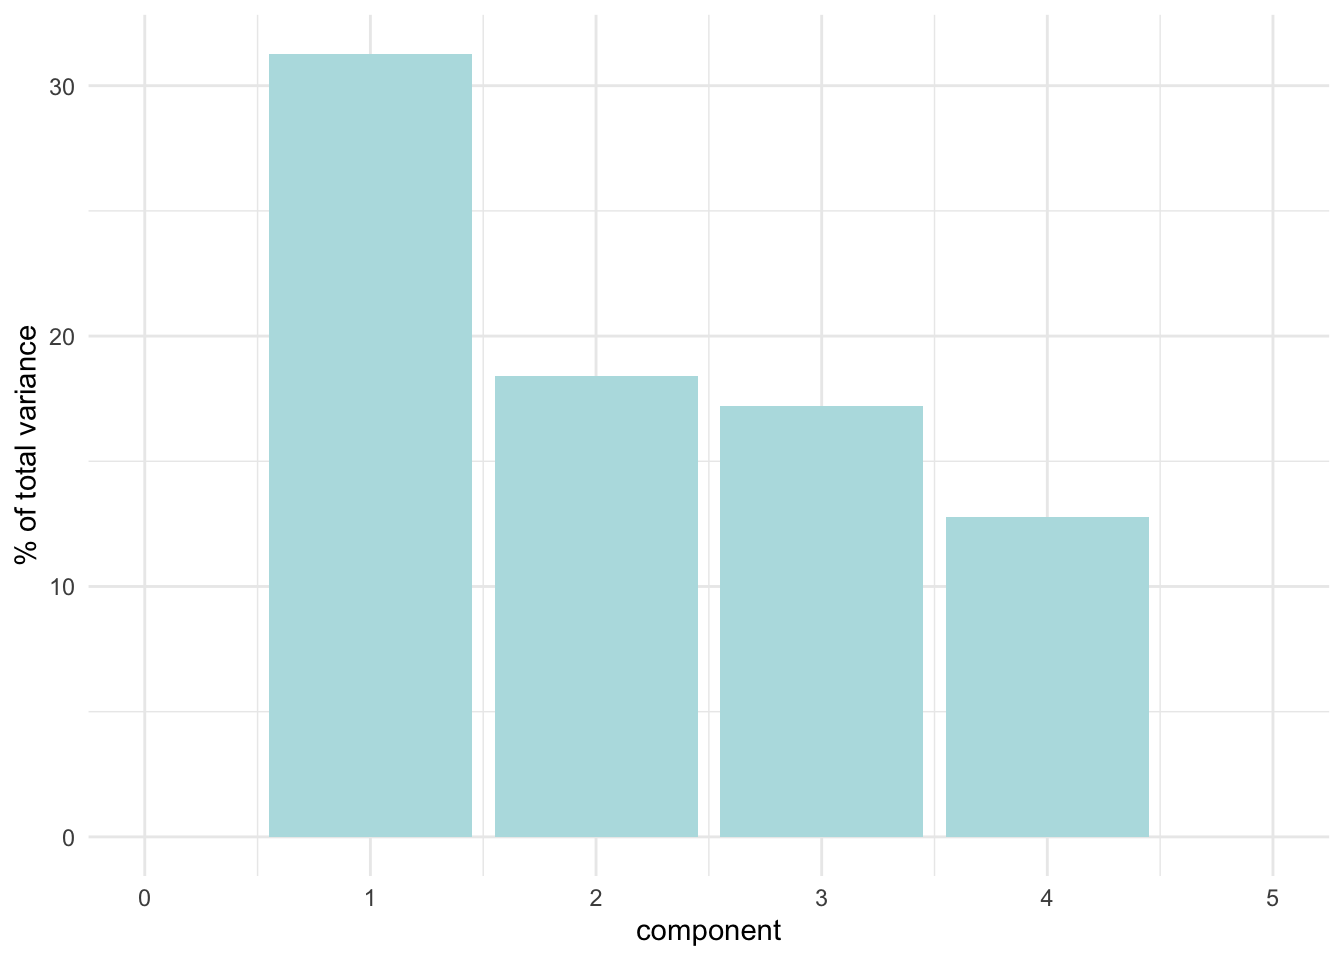
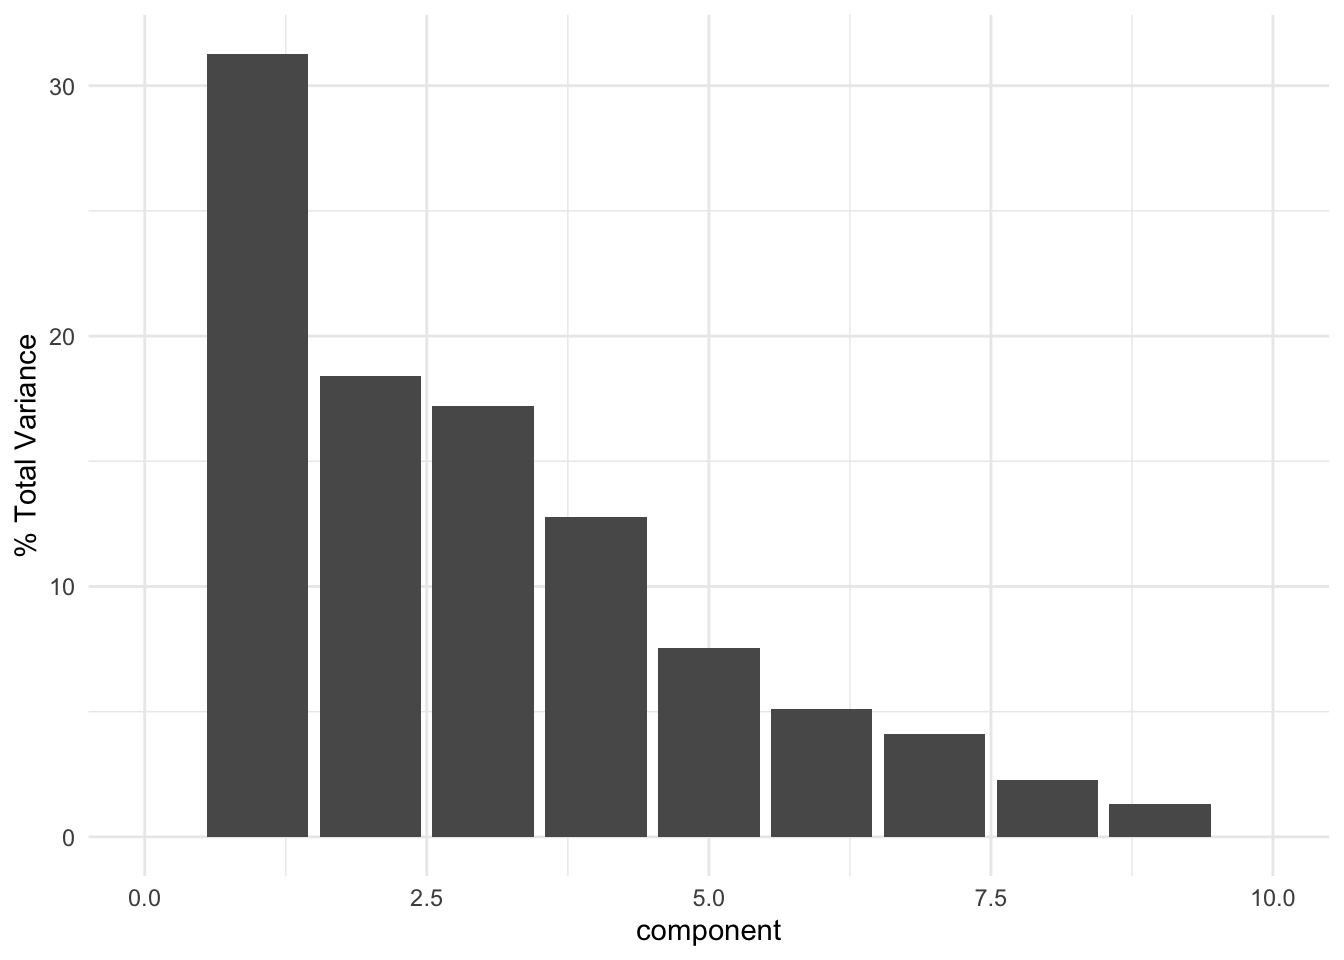
add citations / text

diff --git a/marCasadoPCACheck.html b/marCasadoPCACheck.html
@@ -94,7 +94,7 @@ pre > code.sourceCode > span > a:first-child::before { text-decoration: underlin
 
 </header>
 
-<p>The aim of this document is to validate results of the ml.js package PCA method in JavaScript.</p>
+<p>The aim of this document is to validate results of the ml.js package PCA method in JavaScript for an Observable course on <a href="https://observablehq.com/@observablehq/ds-workflows-in-js-session-3-key">Data Science Workflows in JavaScript (Session 3)</a>. This example closely follows the example from the <a href="https://allisonhorst.github.io/palmerpenguins/articles/pca.html">palmerpenguins package documentation</a>.</p>
 <p><strong>Data source:</strong> Marcos Gonçalves da Silva, Juliana Nascimento Silva, Helena Rodrigues Fragoso, Natalia Pirani Ghilardi-Lopes (2019).Temporal series analysis of abiotic data for a subtropical Brazilian rocky shore. Data in Brief, Volume 24. ISSN 2352-3409, <a href="https://doi.org/10.1016/j.dib.2019.103873" class="uri">https://doi.org/10.1016/j.dib.2019.103873</a>.</p>
 <section id="attach-packages" class="level3">
 <h3 class="anchored" data-anchor-id="attach-packages">Attach packages</h3>
@@ -171,9 +171,9 @@ pre > code.sourceCode > span > a:first-child::before { text-decoration: underlin
 <span id="cb8-2"><a href="#cb8-2" aria-hidden="true" tabindex="-1"></a>  <span class="fu">tidy</span>(<span class="at">id =</span> <span class="st">"pca"</span>, <span class="at">type =</span> <span class="st">"variance"</span>) <span class="sc">%&gt;%</span> </span>
 <span id="cb8-3"><a href="#cb8-3" aria-hidden="true" tabindex="-1"></a>  dplyr<span class="sc">::</span><span class="fu">filter</span>(terms <span class="sc">==</span> <span class="st">"percent variance"</span>) <span class="sc">%&gt;%</span> </span>
 <span id="cb8-4"><a href="#cb8-4" aria-hidden="true" tabindex="-1"></a>  <span class="fu">ggplot</span>(<span class="fu">aes</span>(<span class="at">x =</span> component, <span class="at">y =</span> value)) <span class="sc">+</span> </span>
-<span id="cb8-5"><a href="#cb8-5" aria-hidden="true" tabindex="-1"></a>  <span class="fu">geom_col</span>(<span class="at">fill =</span> <span class="st">"#b6dfe2"</span>) <span class="sc">+</span> </span>
-<span id="cb8-6"><a href="#cb8-6" aria-hidden="true" tabindex="-1"></a>  <span class="fu">xlim</span>(<span class="fu">c</span>(<span class="dv">0</span>, <span class="dv">5</span>)) <span class="sc">+</span> </span>
-<span id="cb8-7"><a href="#cb8-7" aria-hidden="true" tabindex="-1"></a>  <span class="fu">ylab</span>(<span class="st">"% of total variance"</span>) <span class="sc">+</span></span>
+<span id="cb8-5"><a href="#cb8-5" aria-hidden="true" tabindex="-1"></a>  <span class="fu">geom_col</span>() <span class="sc">+</span> </span>
+<span id="cb8-6"><a href="#cb8-6" aria-hidden="true" tabindex="-1"></a>  <span class="fu">xlim</span>(<span class="fu">c</span>(<span class="dv">0</span>, <span class="dv">10</span>)) <span class="sc">+</span> </span>
+<span id="cb8-7"><a href="#cb8-7" aria-hidden="true" tabindex="-1"></a>  <span class="fu">ylab</span>(<span class="st">"% Total Variance"</span>) <span class="sc">+</span></span>
 <span id="cb8-8"><a href="#cb8-8" aria-hidden="true" tabindex="-1"></a>  <span class="fu">theme_minimal</span>()</span></code><button title="Copy to Clipboard" class="code-copy-button"><i class="bi"></i></button></pre></div>
 <div class="cell-output-display">
 <p><img src="marCasadoPCACheck_files/figure-html/unnamed-chunk-7-1.png" class="img-fluid" width="672"></p>
